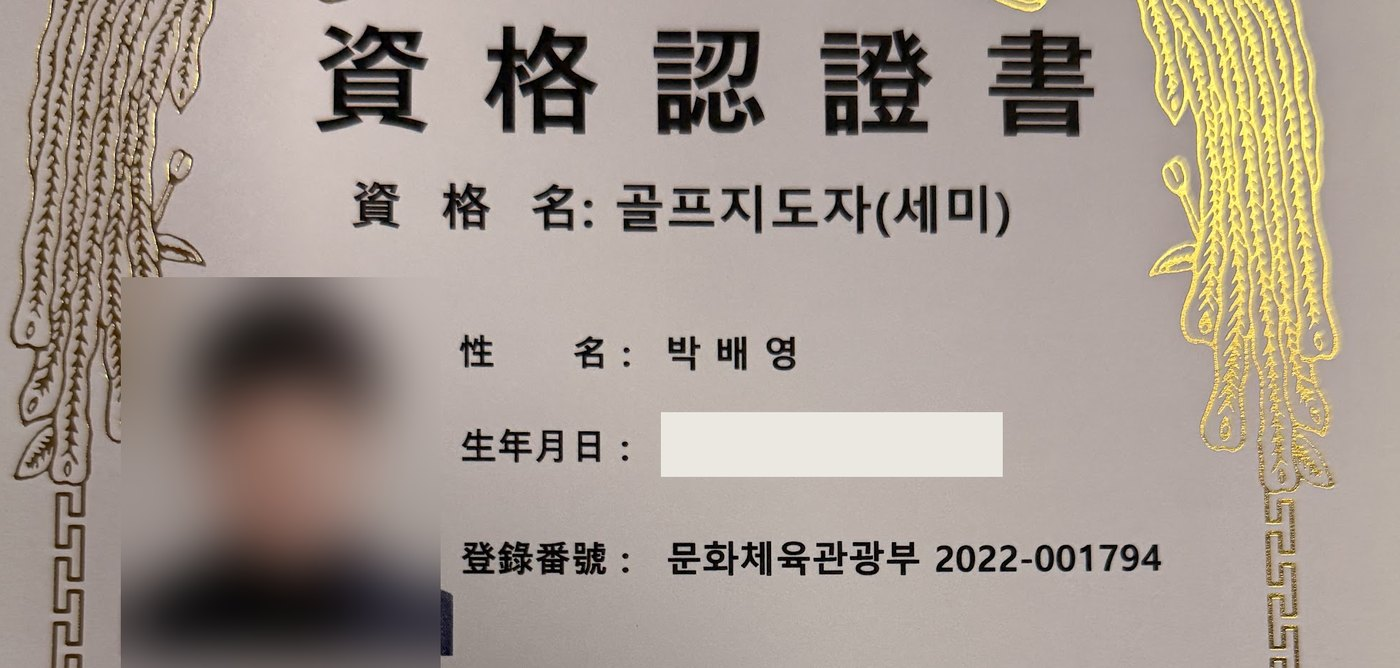
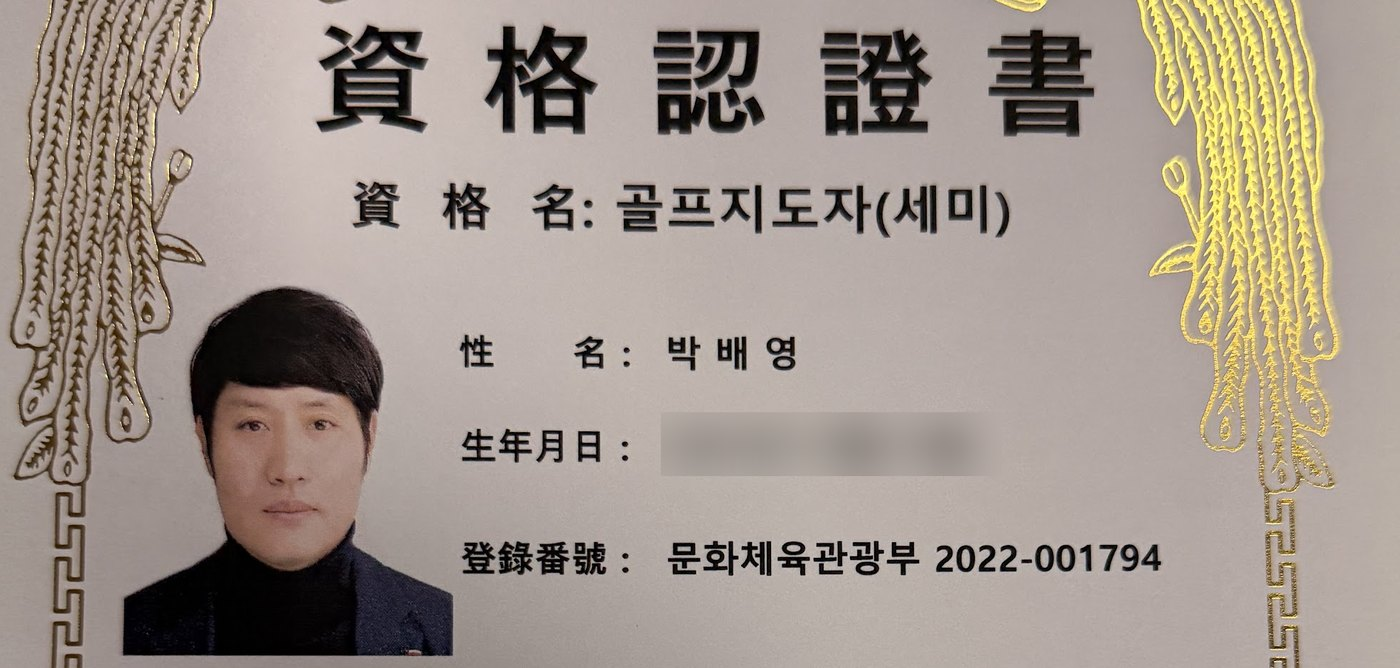
골프 자격증: 사진 공개, 생년월일만 블러

Changed region(s): [[0.0614, 0.3892, 0.3379, 1.0], [0.4607, 0.5988, 0.7371, 0.7186]]

diff --git a/golf/index.html b/golf/index.html
@@ -144,7 +144,7 @@
     </div>
     <figure class="certimg">
       <img src="/assets/golf-cert.jpg" alt="골프지도자(세미) 자격인증서 — 문화체육관광부 등록번호 2022-001794" loading="lazy">
-      <figcaption>자격인증서 원본 (문화체육관광부 등록 민간자격 · 개인정보는 가림)</figcaption>
+      <figcaption>자격인증서 원본 (문화체육관광부 등록 민간자격 · 생년월일은 가림)</figcaption>
     </figure>
   </section>
 
